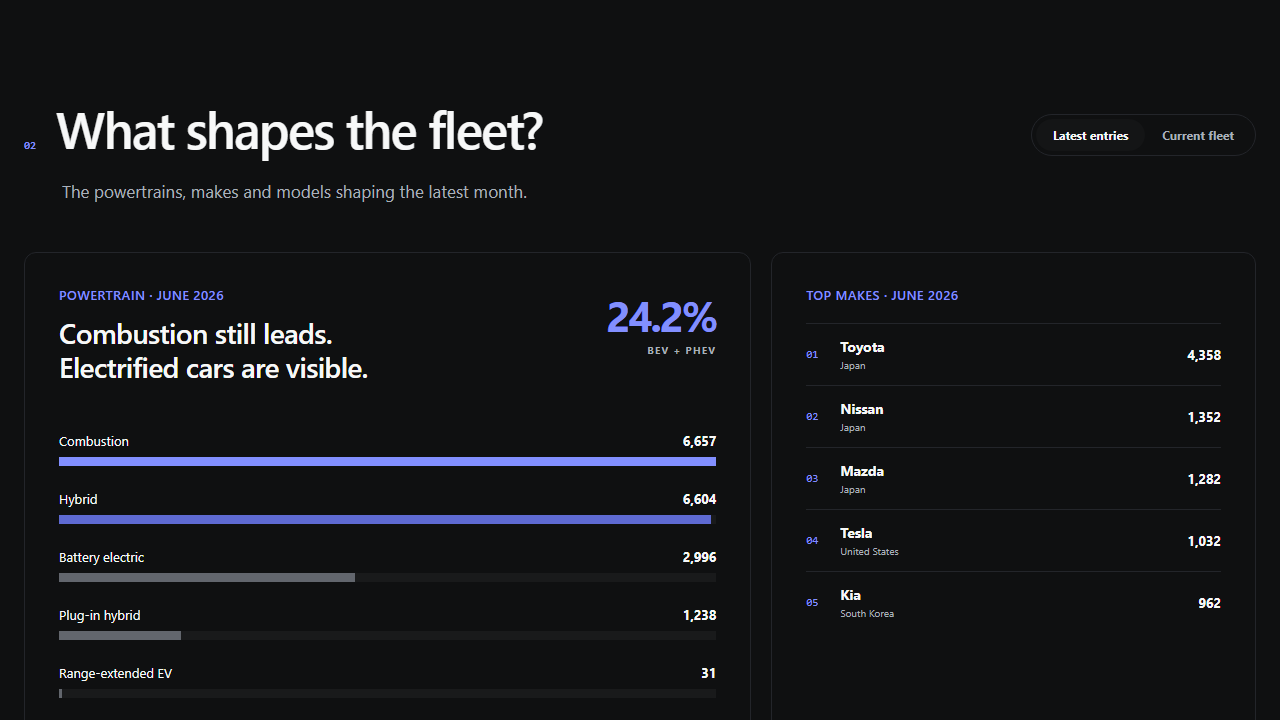
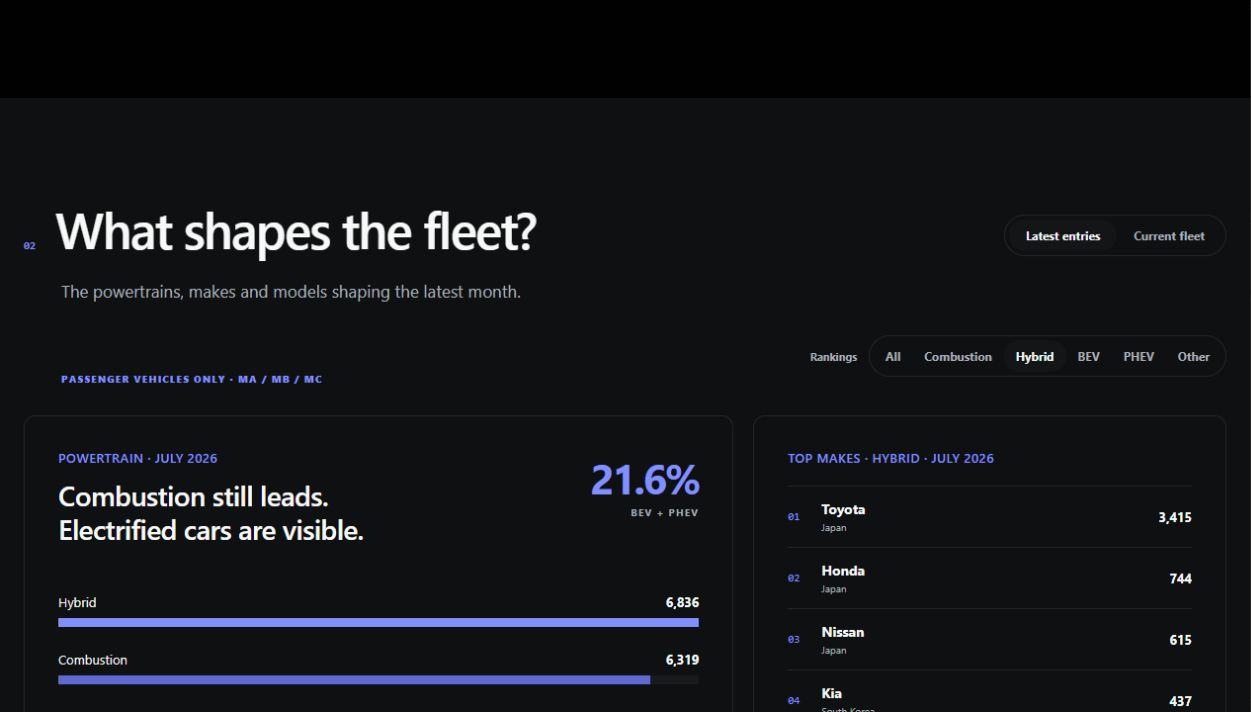
feat: expand vehicle tracker showcase (#20)

diff --git a/src/data/portfolio.ts b/src/data/portfolio.ts
@@ -35,21 +35,28 @@ export const projects: Project[] = [
     featured: true,
     details: {
       summary:
-        'A production-style data project that streams NZTA\'s current-fleet release, applies documented analytical boundaries, and publishes a responsive dashboard. Its public repository includes automated validation, weekly refresh checks, snapshot retention, current-fleet rankings, and an exact make-and-model explorer.',
+        'A production-style data project that streams NZTA\'s current-fleet release, applies documented analytical boundaries, and publishes a responsive dashboard. Its public repository includes automated validation, weekly refresh checks, historical monthly exploration, filtered vehicle rankings, fleet-age analysis, and an exact make-and-model explorer.',
       gallery: [
         {
           type: 'image',
           src: '/projects/nz-vehicle-market-tracker/1.png',
-          alt: 'NZ Vehicle Market Tracker introduction showing the June 2026 passenger-vehicle total and the split between NZ-new cars and used imports.',
+          alt: 'NZ Vehicle Market Tracker introduction showing the July 2026 passenger-vehicle total and the split between NZ-new cars and used imports.',
           caption:
             'The dashboard opens with the latest market snapshot and its NZ-new versus used-import split.',
         },
         {
           type: 'image',
-          src: '/projects/nz-vehicle-market-tracker/2.png',
-          alt: 'NZ Vehicle Market Tracker vehicle analysis showing June 2026 powertrain composition, leading makes, and a toggle between latest entries and the current fleet.',
+          src: '/projects/nz-vehicle-market-tracker/5.png',
+          alt: 'Historical monthly detail controls showing December 2025 NZ-new and used-import counts and the used-import share.',
           caption:
-            'Vehicle rankings can switch between the latest entries and the current scoped fleet.',
+            'Year and month controls expose exact historical market totals beyond the annual chart.',
+        },
+        {
+          type: 'image',
+          src: '/projects/nz-vehicle-market-tracker/2.png',
+          alt: 'NZ Vehicle Market Tracker vehicle analysis showing July 2026 powertrain composition and leading hybrid makes with the Hybrid ranking filter selected.',
+          caption:
+            'Powertrain filters reveal the makes and models leading each vehicle category.',
         },
         {
           type: 'image',
@@ -57,6 +64,20 @@ export const projects: Project[] = [
           alt: 'Dashboard panels comparing NZ-new and used-import arrival channels within each powertrain and listing the leading models for June 2026.',
           caption:
             'Arrival-channel analysis shows how each major powertrain reaches the New Zealand fleet.',
+        },
+        {
+          type: 'image',
+          src: '/projects/nz-vehicle-market-tracker/6.png',
+          alt: 'Interactive current-fleet age chart showing average, median, and most common vehicle ages with the 20-year-old bar selected.',
+          caption:
+            'The current-fleet age profile combines summary statistics with selectable age-level counts.',
+        },
+        {
+          type: 'image',
+          src: '/projects/nz-vehicle-market-tracker/7.png',
+          alt: 'Current-fleet used-import analysis showing previous registration countries and the approximate age distribution at New Zealand entry.',
+          caption:
+            'The import-origin view switches from the latest month to the full 2007-and-later current-fleet cohort.',
         },
         {
           type: 'image',
@@ -86,7 +107,7 @@ export const projects: Project[] = [
           },
           {
             label: 'Automated checks',
-            value: '23 tests',
+            value: '29 tests',
           },
         ],
       },
@@ -114,7 +135,7 @@ export const projects: Project[] = [
           {
             label: 'Versioned aggregates',
             detail:
-              'Write ten compact JSON datasets with record counts, SHA-256 checksums, and monthly archives',
+              'Write fifteen compact JSON datasets with record counts, SHA-256 checksums, and monthly archives',
           },
           {
             label: 'Dashboard delivery',
